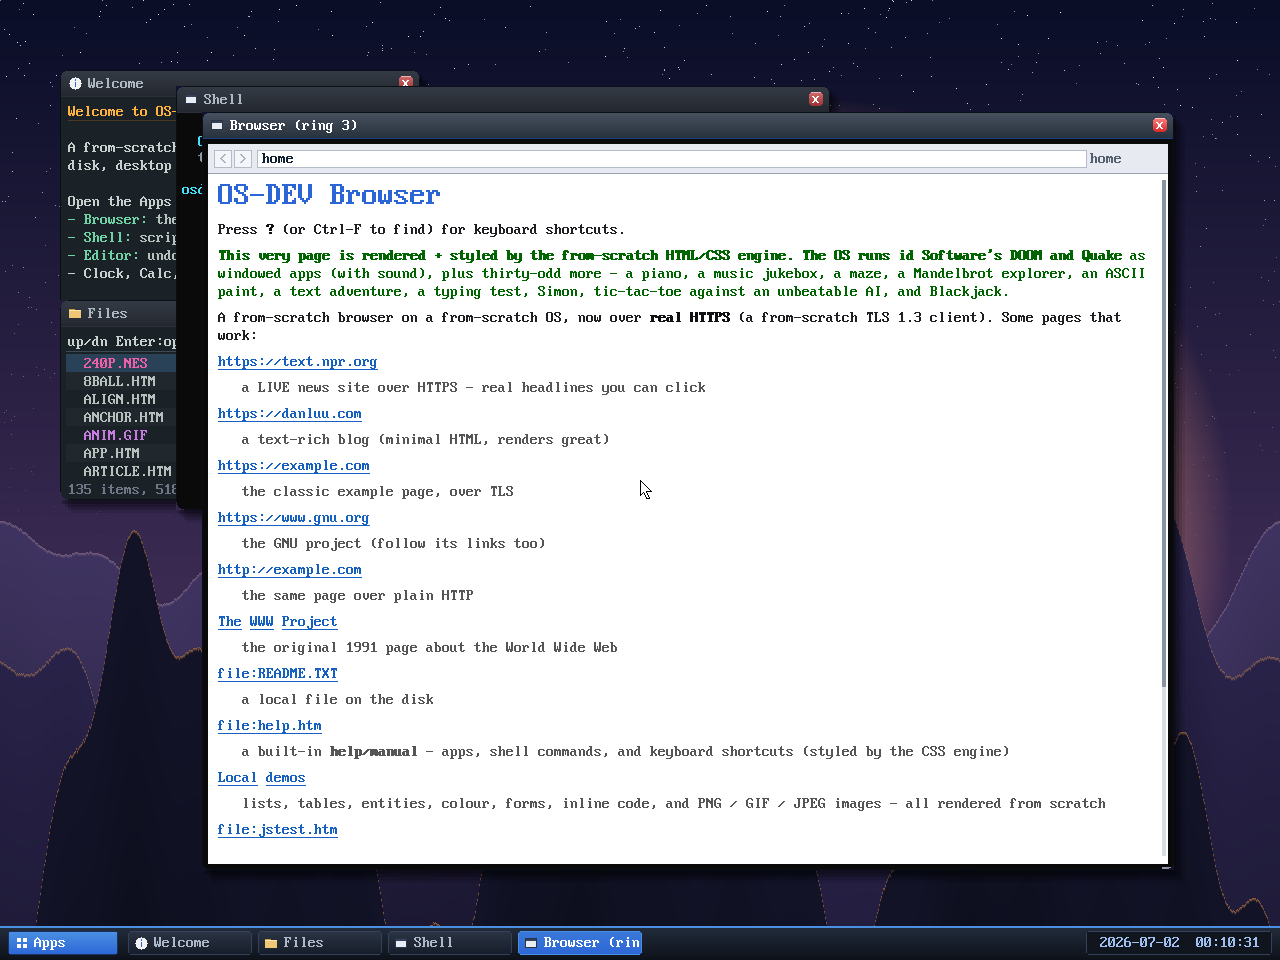
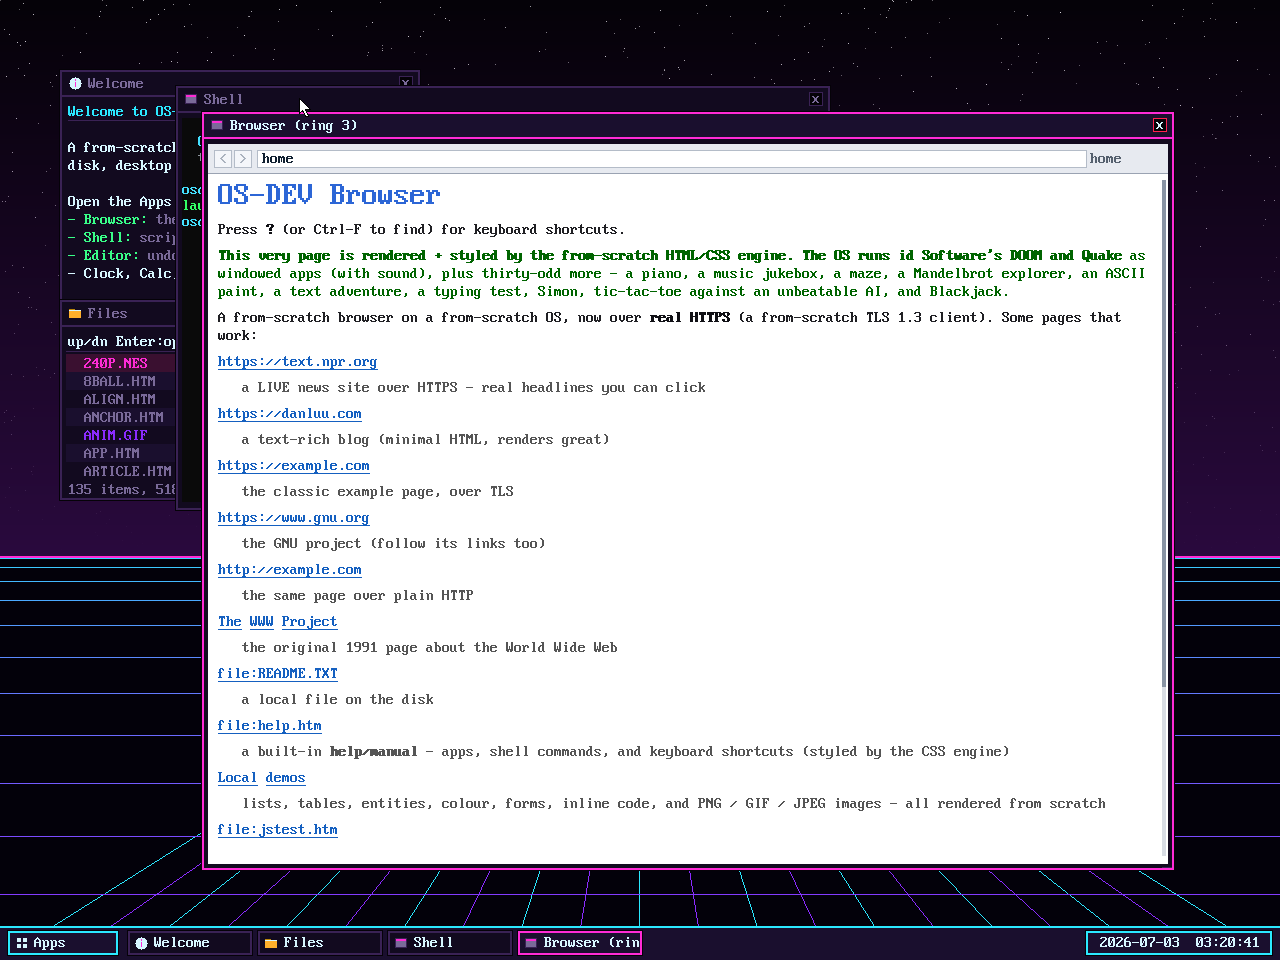
docs: refresh screenshots for the cyberpunk theme + add a demo GIF, CI, gallery
The two screenshots the README embeds (desktop hero, ring-3 browser)
still showed the pre-M1517 dusk-mountain theme -- replaced both with
fresh captures of the new look. Added an animated demo GIF (desktop ->
Apps menu -> DOOM -> the browser's HTTPS home page, built from 4
screenshots via ffmpeg) as the top-of-README hero instead of a static
shot, plus a small "wow" gallery (DOOM windowed, System Info's live
stats, the shell) below the existing browser screenshot.

Added .github/workflows/ci.yml: runs the ~40 host-side ASan/UBSan
suites (parsers, crypto, string/bignum primitives, shell utilities) on
push/PR. The other ~27 suites boot the real kernel under QEMU and want
KVM for a reasonable runtime, which GitHub-hosted runners don't expose
(no nested virtualization), so those stay a local `make check` step
rather than running in CI -- verified the exact CI command locally
first (all 40 pass).

Bumped the milestone badge to 1519 and added a CI status badge. Also
mentions grabbing a pre-built kernel+disk-image bundle from GitHub
Releases as a no-build-required quick start (bundle published
separately, see the release notes).

diff --git a/README.md b/README.md
@@ -6,12 +6,13 @@
 engine, and a sandboxed web browser — written in C and a little assembly,
 booted via Multiboot under QEMU.
 
-[![Milestones](https://img.shields.io/badge/milestones-1516-blue)](WHATS-NEXT.md)
+[![Milestones](https://img.shields.io/badge/milestones-1519-blue)](WHATS-NEXT.md)
 [![Tests](https://img.shields.io/badge/tests-67%20passing-brightgreen)](tests/README.md)
+[![host tests](https://github.com/kitslayer/OS-DEV/actions/workflows/ci.yml/badge.svg)](https://github.com/kitslayer/OS-DEV/actions/workflows/ci.yml)
 [![From scratch](https://img.shields.io/badge/from--scratch-~82k%20lines-orange)](#status)
 [![License: MIT](https://img.shields.io/badge/license-MIT-lightgrey)](LICENSE)
 
-![The desktop: a procedural dusk-mountain wallpaper, dark-slate windows, the Files panel, a shell, and the ring-3 Browser open](docs/osdev-desktop-current.png)
+![Demo: the desktop, the Apps menu, DOOM running as a windowed ring-3 process, and the from-scratch browser fetching a page over real HTTPS](docs/osdev-demo.gif)
 
 </div>
 
@@ -101,6 +102,19 @@ booting on real hardware, **[BAREMETAL.md](BAREMETAL.md)**; for the test suites
 
 ![The ring-3 Browser (webview) rendering its start page, including live HTTPS links, over real TLS](docs/osdev-browser-ring3.png)
 
+<table>
+<tr>
+<td width="33%"><img src="docs/osdev-doom-themed.png" alt="DOOM running as a windowed ring-3 process"></td>
+<td width="33%"><img src="docs/osdev-sysinfo-themed.png" alt="The System Info panel: live memory/task/network/disk stats"></td>
+<td width="33%"><img src="docs/osdev-terminal-themed.png" alt="The shell: neofetch + ps, from-scratch"></td>
+</tr>
+<tr>
+<td align="center"><sub>id Software's DOOM, windowed</sub></td>
+<td align="center"><sub>live system stats</sub></td>
+<td align="center"><sub>the scriptable shell</sub></td>
+</tr>
+</table>
+
 Where to go next: **[WHATS-NEXT.md](WHATS-NEXT.md)**. The honest take on the
 long-term goals (browser, music, Claude Code): **[GOALS.md](GOALS.md)**.
 
@@ -112,6 +126,10 @@ make run      # boot in a QEMU window (VGA output)
 make test     # boot headless, capture serial output, exit after 5s
 make clean
 ```
+
+Don't want to build from source? Grab the pre-built kernel + disk image from
+the [latest release](https://github.com/kitslayer/OS-DEV/releases/latest) and
+boot it straight in QEMU — see the bundled `RUN_ME.md` for the one-liner.
 
 Drive the shell over the serial line (so it works headlessly):
 
